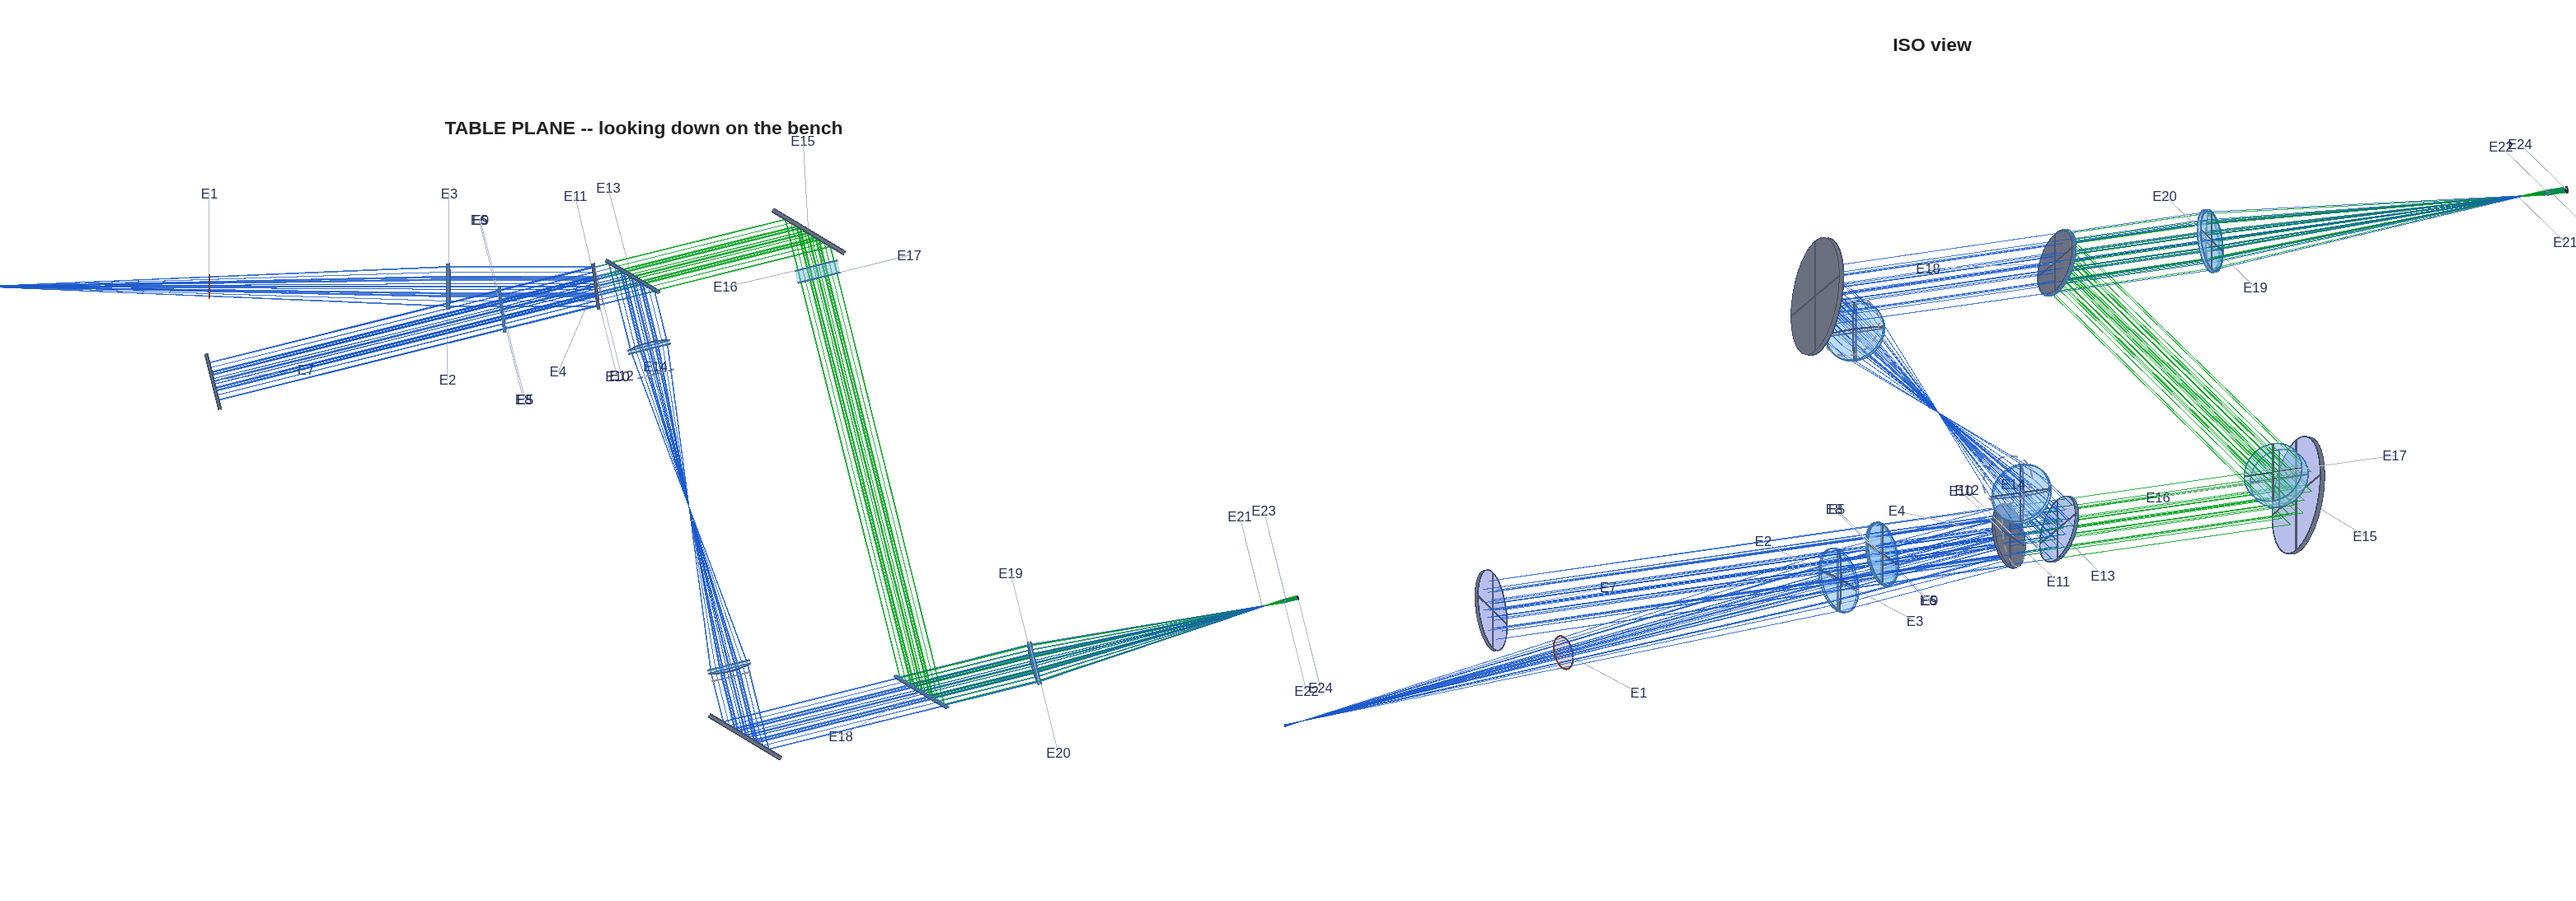
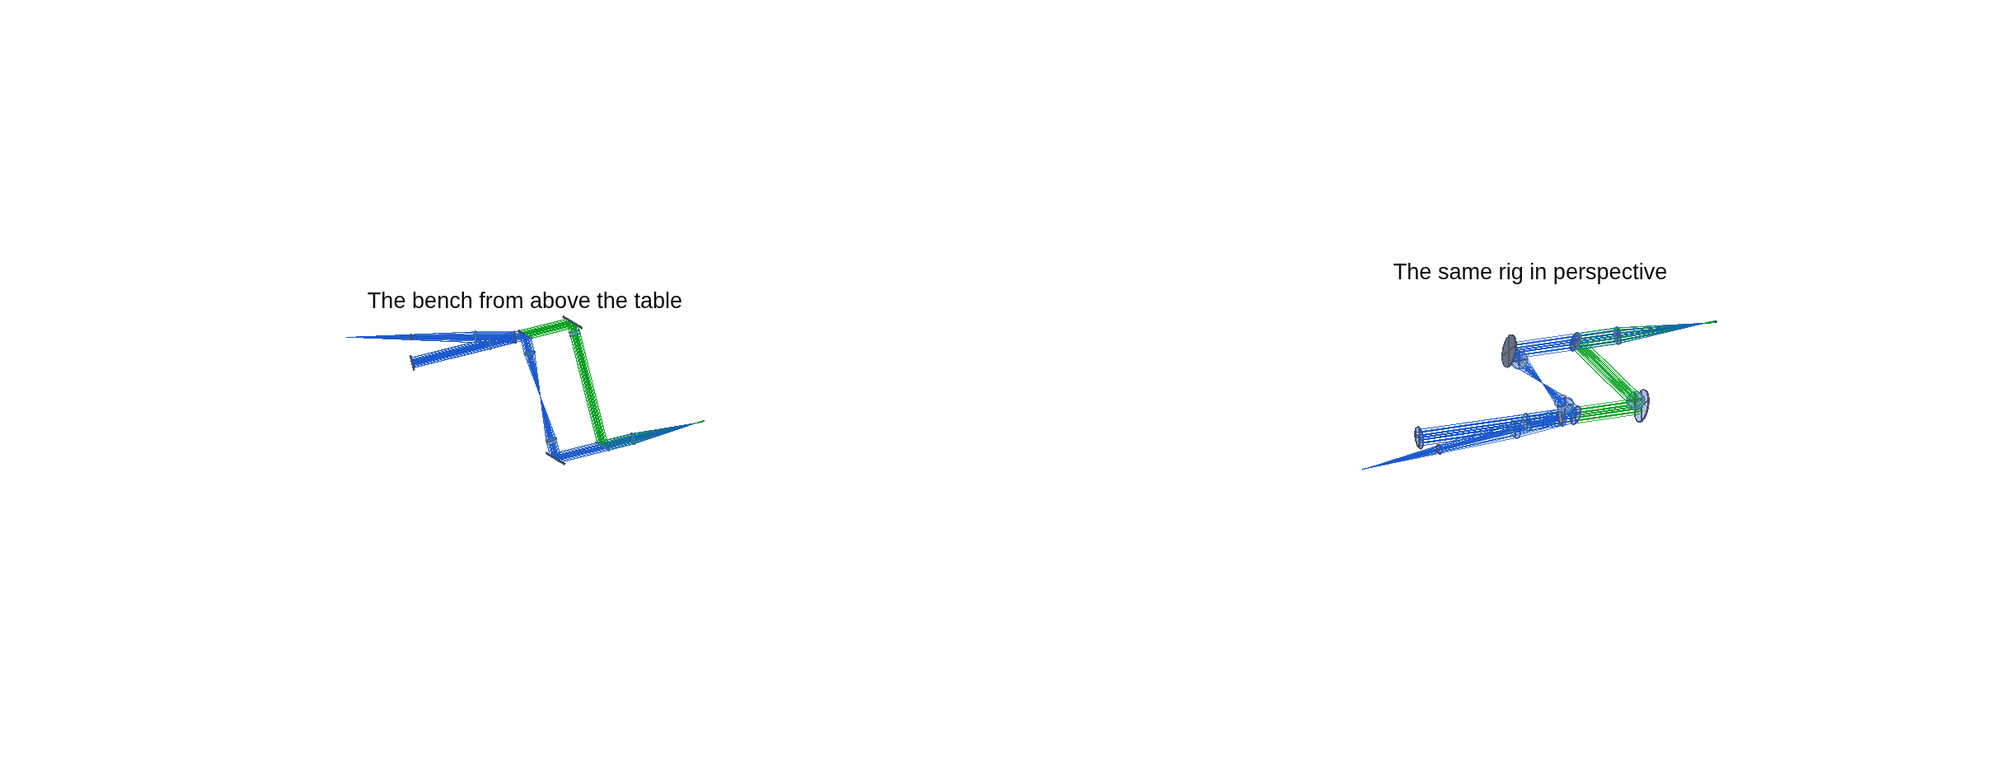
pdi_dm96 figures: both layouts redrawn to the deck recipe, iterable
pdi_vfig_util gains the two things the first pass got wrong at slide
size: label offsets are now a FRACTION OF THE AXIS SPAN (so a panel that
crops to 600 mm and one that shows 1900 mm place their names the same
distance off the beam on the printed page), and titles word-wrap (a
title wider than its axes is a title the slide cuts off at both ends --
both panels did).  'flat' takes an azimuth, so a portrait node can be
turned 90 deg in the page and shown at full slide width: the P/SRI's
reference arm is 830 mm long and 300 mm wide, and drawn upright it was
a narrow column between two empty margins.

psri_layout_fig('solve', false) takes the solved conic and pinhole trim
from pdi_params instead of re-running the search -- one bench build
instead of ~90, which is what makes a layout iterable.  The solve is
still the source of those values; the printout says which path ran.

pdi_layout_tail.png is dropped: the recipe puts the crowded node in the
SAME figure as a cropped panel, so a second file would be a second thing
to keep in step.

Claude-Session: https://claude.ai/code/session_01RuX6Hc5txP1E9QGjcSo42d

diff --git a/mmacos/templates/40_benches/pdi_dm96/psri_layout_fig.m b/mmacos/templates/40_benches/pdi_dm96/psri_layout_fig.m
@@ -18,6 +18,13 @@ if isempty(which('macos.init')), run(fullfile(exdir, '..', '..', '..', 'mmacos_s
 addpath(fullfile(exdir, '..', 'zwfs_dm96'));                % zwfs_params, zwfs_mask
 cd(exdir);
 MODEL = 512;  NGRID = 65;  N_G = 256;  DX_G = 0.42;
+% 'solve', false takes the SOLVED values of record from pdi_params
+% (P.pdi.psri) instead of re-running the search -- the figure then costs one
+% bench build instead of ~90, which is what makes a layout iterable.  The
+% solve is the source of those values; keep them in step.
+dosolve = true;
+k = find(strcmp(varargin, 'solve'), 1);
+if ~isempty(k), dosolve = varargin{k+1};  varargin(k:k+1) = []; end
 macos.init(MODEL);
 macos.write_grid_file('zwfs_flat.txt', zeros(N_G));
 base = [{'ngridpts', NGRID, 'to_grid_file', 'zwfs_flat.txt', 'to_grid_n', N_G, 'to_grid_dx', DX_G}, varargin];
@@ -31,6 +38,7 @@ base = [{'ngridpts', NGRID, 'to_grid_file', 'zwfs_flat.txt', 'to_grid_n', N_G, '
 % mm rms ray blur at the best focus; the ZWFS's L2 carries a tuned conic for
 % the same reason): Lr1's conic and the seat trim by the ray blur at the
 % pinhole, then Lr2's conic by the reference arm's wavefront at the camera.
+if dosolve
 J1 = @(x) ref_rayrms(base, x(1), x(2), NaN);
 x1 = fminsearch(J1, [3, -2.25], optimset('TolX', 1e-3, 'TolFun', 1e-7, 'MaxFunEvals', 90, 'Display', 'off'));
 trim_ray = x1(1);  kc1 = x1(2);
@@ -49,11 +57,16 @@ trim = fminbnd(pk, trim_ray - 0.3, trim_ray + 0.3, optimset('TolX', 2e-3, 'MaxFu
 [w_rc, w_chk, w_pin] = ref_wfe(base, trim, kc1, kc2);
 fprintf('P/SRI bench: Lr1 conic %.4f, ray focus at REF_TRIM %+.3f mm (rms ray radius %.4f mm); Lr2 = Lr1 mirrored (conic %.4f); diffraction focus at %+.3f mm\n', kc1, trim_ray, J1(x1), kc2, trim);
 fprintf('  geometric wavefront (WaveUnits mm -> nm rms): at the recombination plane %.1f nm (the front end''s collimation residual, filtered by the pinhole), recollimated after Lr2 %.1f nm (the same wave: reversibility), at the pinhole %.1f nm\n', w_rc*1e6, w_chk*1e6, w_pin*1e6);
+else
+    P0 = pdi_params();
+    kc1 = P0.pdi.psri.LR1_Kc;  kc2 = P0.pdi.psri.LR2_Kc;  trim = P0.pdi.psri.REF_TRIM;
+    fprintf('P/SRI bench: the SOLVED values of record, from pdi_params (Lr1 = Lr2 conic %.4f, REF_TRIM %+.4f mm) -- re-solve with psri_layout_fig(''solve'', true)\n', kc1, trim);
+end
 base = [base, {'LR1_Kc', kc1, 'LR2_Kc', kc2}];
 G = macos.design.psri_bench(base{:}, 'REF_TRIM', trim);
 G.bt.emit('psri_test.in');  G.br.emit('psri_ref.in');
 B = G.balance;
-fprintf('P/SRI bench: REF_TRIM %+.3f mm (mask-plane peak/sum %.3e)\n', trim, -pk(trim));
+if dosolve, fprintf('P/SRI bench: REF_TRIM %+.3f mm (mask-plane peak/sum %.3e)\n', trim, -pk(trim)); end
 fprintf('  chief optical path, source -> camera: test %.4f mm, reference %.4f mm, difference %.2e mm\n', B.opl_test_mm, B.opl_ref_mm, B.dopl_mm);
 fprintf('  lens-glass compensator in the test arm: %.3f mm of n = %.2f glass\n', B.t_comp_mm, G.P.N_GLASS);
 fprintf('  exit chiefs after BS3: transverse offset %.2e mm; directions test %s / ref %s\n', B.exit_offset_mm, mat2str(B.test_dir_at_exit, 6), mat2str(B.ref_dir_at_exit, 6));
@@ -88,28 +101,29 @@ for ax = [ax1 ax2]
 end
 TO = Et(G.T.iTO).vpt;  BS1 = Et(4).vpt;  M1 = Et(G.T.iM1).vpt;
 BS2 = Et(G.T.iBS2).vpt;  BS3 = Et(G.T.iBS3).vpt;  CAM = Et(G.T.iDET).vpt;
+SRC = Et(1).vpt;  L2 = Et(G.T.iL2).vpt;
 LR1 = Er(G.R.iLR1).vpt;  PIN = Er(G.R.iPIN).vpt;  LR2 = Er(G.R.iLR2).vpt;  M3 = Er(G.R.iM3).vpt;
 pdi_vfig_util('flat', ax1, ...
     'The P/SRI on the DM-gauge bench: the shared front end, then two balanced arms -- the test arm unfiltered (green) and the reference arm through its own pinhole (blue) -- recombined into one camera', 15);
+pdi_vfig_util('frame', ax1, [SRC TO CAM BS2 PIN M1 M3], [0.02 0.02 0.06 0.12]);
 axis(ax1, 'off');
 pdi_vfig_util('label', ax1, { ...
-    TO,  [0  -180], '96 mm deformable mirror (retro)'; ...
-    BS1, [60  170], 'beamsplitter, 7 deg'; ...
-    BS2, [130 -140], 'BS2: the split'; ...
-    PIN, [-80 -160], 'pinhole + phase shifter'; ...
-    CAM, [110 130], 'camera at the pupil image'}, 15);
-pdi_vfig_util('flat', ax2, sprintf(['The reference arm: Lr1 (f %.0f mm, F/%.1f) focuses onto the pinhole seat in its near-field sphere bracket, the photonic phase shifter steps it, ' ...
-    'Lr2 -- Lr1 mirrored about the pinhole -- recollimates, and M3 folds it onto BS3.  The test arm carries %.1f mm of compensating glass so the two chief paths are equal to %.0e mm'], ...
-    G.P.F_REF, G.P.F_REF/(2*G.P.R_TO_AP), B.t_comp_mm, max(abs(B.dopl_mm), 1e-16)), 15);
-pdi_vfig_util('frame', ax2, [LR1 PIN LR2 M3 BS2 BS3], [40 40 40 40]);
+    TO,  [-0.06 -0.26], '96 mm deformable mirror (retro)'; ...
+    BS1, [-0.03  0.15], 'beamsplitter, 7 deg'; ...
+    BS2, [ 0.13  0.07], 'BS2: the split'; ...
+    PIN, [-0.03 -0.27], 'pinhole + phase shifter'; ...
+    CAM, [ 0.03  0.14], 'camera at the pupil image'}, 15);
+% panel 2: the reference arm's node, the crowded part a builder has to get
+% right -- Lr1, the pinhole seat at the true focus, Lr2, and the fold onto BS3
+pdi_vfig_util('flat', ax2, sprintf(['The reference arm: Lr1 (f %.0f mm, F/%.1f) focuses onto the pinhole seat in its near-field sphere bracket, the phase shifter steps it, ' ...
+    'Lr2 -- Lr1 mirrored about the pinhole -- recollimates, and M3 folds it onto BS3.  The test arm carries %.1f mm of compensating glass, which equalizes the two chief paths to %.0e mm.  (The fold plane, turned 90 deg in the page)'], ...
+    G.P.F_REF, G.P.F_REF/(2*G.P.R_TO_AP), B.t_comp_mm, max(abs(B.dopl_mm), 1e-16)), 15, 90);
+pdi_vfig_util('frame', ax2, [LR1 PIN LR2 M3], [0.10 0.10 0.45 0.45]);
 pdi_vfig_util('label', ax2, { ...
-    BS2, [ 22  34], 'BS2'; ...
-    LR1, [-34 -26], 'Lr1'; ...
-    PIN, [ 40 -30], 'pinhole seat (the true focus)'; ...
-    LR2, [-34  26], 'Lr2'; ...
-    M3,  [ 26 -30], 'M3'; ...
-    M1,  [-26  30], 'M1 (test arm)'; ...
-    BS3, [ 30  26], 'BS3: recombination'}, 16);
+    LR1, [-0.02 -0.26], 'Lr1'; ...
+    PIN, [ 0.00  0.26], 'pinhole seat (the true focus)'; ...
+    LR2, [ 0.02 -0.26], 'Lr2'; ...
+    M3,  [ 0.03  0.24], 'M3, onto BS3'}, 16);
 print(f, 'psri_layout.png', '-dpng', '-r130');  close(f);
 fprintf('wrote psri_layout.png\n');
 % ---- the traced render: the same two decks, table plane and ISO ------------

diff --git a/mmacos/templates/40_benches/pdi_dm96/pdi_vfig_util.m b/mmacos/templates/40_benches/pdi_dm96/pdi_vfig_util.m
@@ -7,41 +7,66 @@ function out = pdi_vfig_util(varargin)
 %   width, type readable at slide size (15-17 pt in an 1800 px figure).
 %
 %   Calls:
-%     ax = pdi_vfig_util('axes', fig, tl, span)     a tile of span rows
-%     pdi_vfig_util('flat', ax, title)              from above, equal, titled
-%     pdi_vfig_util('label', ax, lab)               leader-lined names
-%     pdi_vfig_util('frame', ax, pts, pad)          limits about these points
-%   lab is an N x 3 cell: {vertex (3x1), offset [dx dy], name}.
+%     pdi_vfig_util('flat',  ax, title, fontsize [, az])  from above, equal,
+%                                                   titled; az rotates the
+%                                                   fold plane in the page
+%     pdi_vfig_util('frame', ax, pts, padfrac)      limits about these points
+%     pdi_vfig_util('label', ax, lab [, fontsize])  leader-lined names
+%
+%   lab is an N x 3 cell: {vertex (3x1), offset [fx fy], name}.  THE OFFSET
+%   IS A FRACTION OF THE AXIS SPAN, not bench mm -- a panel that crops to
+%   600 mm and one that shows 1900 mm then place their labels the same
+%   distance off the beam on the printed page, which is the only distance
+%   that matters.  Call 'label' AFTER 'frame' (it reads the limits).
+%
+%   padfrac is [left right bottom top] as fractions of the point cloud's
+%   own extent.  Titles are wrapped to WRAPCOL characters a line: a title
+%   wider than its axes is a title the slide cuts off at both ends.
+WRAPCOL = 105;
 switch varargin{1}
-case 'axes'
-    [~, tl, span] = varargin{2:4};  out = nexttile(tl, [span 1]);
 case 'flat'
     [ax, ttl, fs] = varargin{2:4};
-    axes(ax);  axis(ax, 'equal');  view(ax, 0, 90);                 %#ok<LAXES>
-    title(ax, ttl, 'Color', [11 11 11]/255, 'FontWeight', 'normal', 'FontSize', fs);
-    out = ax;
-case 'label'
-    [ax, lab] = varargin{2:3};
-    fs = 17;  if numel(varargin) > 3, fs = varargin{4}; end
-    for k = 1:size(lab, 1)
-        p = lab{k,1};  d = lab{k,2};
-        plot3(ax, [p(1) p(1)+d(1)], [p(2) p(2)+d(2)], [0.2 0.2], '-', ...
-            'Color', [137 135 129]/255, 'LineWidth', 1.0);
-        text(ax, p(1)+d(1), p(2)+d(2), 0.3, lab{k,3}, 'Color', [11 11 11]/255, ...
-            'FontSize', fs, 'HorizontalAlignment', 'center', 'VerticalAlignment', 'bottom', ...
-            'BackgroundColor', 'w', 'Margin', 1);
-    end
+    az = 0;  if numel(varargin) > 4, az = varargin{5}; end   % rotate the fold plane in the page:
+    axes(ax);  axis(ax, 'equal');  view(ax, az, 90);         %#ok<LAXES> a portrait node at full width
+    title(ax, wrap_(ttl, WRAPCOL), 'Color', [11 11 11]/255, 'FontWeight', 'normal', 'FontSize', fs);
     out = ax;
 case 'frame'
     [ax, pts, pad] = varargin{2:4};
-    xlim(ax, [min(pts(1,:))-pad(1), max(pts(1,:))+pad(2)]);
-    ylim(ax, [min(pts(2,:))-pad(3), max(pts(2,:))+pad(4)]);
+    x0 = min(pts(1,:));  x1 = max(pts(1,:));  y0 = min(pts(2,:));  y1 = max(pts(2,:));
+    w = max(x1 - x0, eps);  h = max(y1 - y0, eps);
+    xlim(ax, [x0 - pad(1)*w, x1 + pad(2)*w]);
+    ylim(ax, [y0 - pad(3)*h, y1 + pad(4)*h]);
     xlabel(ax, 'bench x, mm', 'Color', [11 11 11]/255, 'FontSize', 14);
     ylabel(ax, 'bench y, mm', 'Color', [11 11 11]/255, 'FontSize', 14);
     set(ax, 'FontSize', 13);  grid(ax, 'on');
     set(ax, 'GridColor', [225 224 217]/255, 'Color', 'w');
     out = ax;
+case 'label'
+    [ax, lab] = varargin{2:3};
+    fs = 16;  if numel(varargin) > 3, fs = varargin{4}; end
+    xl = xlim(ax);  yl = ylim(ax);  sx = diff(xl);  sy = diff(yl);
+    for k = 1:size(lab, 1)
+        p = lab{k,1};  d = [lab{k,2}(1)*sx, lab{k,2}(2)*sy];
+        plot3(ax, [p(1) p(1)+d(1)], [p(2) p(2)+d(2)], [0.2 0.2], '-', ...
+            'Color', [137 135 129]/255, 'LineWidth', 1.0);
+        va = 'bottom';  if d(2) < 0, va = 'top'; end
+        text(ax, p(1)+d(1), p(2)+d(2), 0.3, lab{k,3}, 'Color', [11 11 11]/255, ...
+            'FontSize', fs, 'HorizontalAlignment', 'center', 'VerticalAlignment', va, ...
+            'BackgroundColor', 'w', 'Margin', 1);
+    end
+    out = ax;
 otherwise
     error('pdi_vfig_util: unknown action %s', varargin{1});
 end
+end
+
+function t = wrap_(s, n)
+% word-wrap to n characters a line (a cell of lines: MATLAB stacks them)
+w = strsplit(strtrim(s), ' ');  t = {};  cur = '';
+for i = 1:numel(w)
+    if isempty(cur), cand = w{i}; else, cand = [cur ' ' w{i}]; end
+    if numel(cand) > n && ~isempty(cur), t{end+1} = cur;  cur = w{i}; %#ok<AGROW>
+    else, cur = cand; end
+end
+if ~isempty(cur), t{end+1} = cur; end
 end

diff --git a/mmacos/templates/40_benches/pdi_dm96/pdi_layout_fig.m b/mmacos/templates/40_benches/pdi_dm96/pdi_layout_fig.m
@@ -44,29 +44,29 @@ for ax = [ax1 ax2]
     macos.view_rx('ax', ax, 'ray_color', green, 'title', '', 'labels', false, 'hide', passive);
 end
 % ---- top: the whole train, from above the fold plane ----------------------
-pdi_vfig_util('flat', ax1, ...
-    'The point-diffraction gauge: the TG96 test arm, with a stepped PINHOLE substrate in the seat at the internal focus', 15);
-axis(ax1, 'off');
 L1 = E(idx('L1pow')).vpt;  BS = E(idx('BSrefl')).vpt;  TO = E(idx('TestOptic')).vpt;
 CM = E(idx('Comptxfd')).vpt;  SEAT = E(G.T.iMASK).vpt;  CAM = E(G.T.iDET).vpt;
-L2 = E(idx('L2pow')).vpt;  FL = E(idx('FLpow')).vpt;
+L2 = E(idx('L2pow')).vpt;  FL = E(idx('FLpow')).vpt;  SRC = E(1).vpt;
+pdi_vfig_util('flat', ax1, ...
+    'The point-diffraction gauge: the TG96 test arm, with a stepped PINHOLE substrate in the seat at the internal focus', 15);
+pdi_vfig_util('frame', ax1, [SRC TO CAM L1 SEAT], [0.03 0.03 0.42 0.30]);
+axis(ax1, 'off');
 pdi_vfig_util('label', ax1, { ...
-    L1,   [0   130], 'collimator L1'; ...
-    BS,   [90 -150], 'beamsplitter, 7 deg'; ...
-    CM,   [-60 150], 'compensator'; ...
-    TO,   [0  -170], '96 mm deformable mirror (retro)'; ...
-    L2,   [-40 170], 'L2'; ...
-    SEAT, [180 -130], 'pinhole substrate at the internal focus'}, 15);
+    L1,   [-0.06 -0.26], 'collimator L1'; ...
+    CM,   [ 0.02  0.16], 'compensator'; ...
+    BS,   [ 0.09 -0.13], 'beamsplitter, 7 deg'; ...
+    TO,   [ 0.00 -0.20], '96 mm deformable mirror (retro)'; ...
+    L2,   [-0.02  0.24], 'L2'; ...
+    SEAT, [ 0.13  0.13], 'pinhole substrate at the internal focus'}, 15);
 % ---- bottom: the crowded node, cropped -----------------------------------
-pdi_vfig_util('flat', ax2, sprintf(['The last %.0f mm: the seat between the near-field entrance and exit spheres, then the field lens and the camera at the pupil image.  ' ...
-    'The pinhole is %.2f lam/D across (%.1f um); the surround transmits %s of the amplitude, and the substrate steps the pinhole''s phase'], ...
-    norm(CAM - L2), P.pdi.DIA_LAMD, P.pdi.DIA_LAMD*P.LAM*P.bench.F2/(2*P.bench.R_TO_AP)*1e3, ...
-    'a matched fraction'), 15);
-pdi_vfig_util('frame', ax2, [SEAT CAM FL L2], [30 25 22 22]);
+pdi_vfig_util('flat', ax2, sprintf(['The tail: the seat between the near-field entrance and exit spheres, then the field lens and the camera at the pupil image.  ' ...
+    'The pinhole is %.2f lam/D across (%.1f um); the surround is attenuated to match the reference it diffracts, and the substrate steps its phase'], ...
+    P.pdi.DIA_LAMD, P.pdi.DIA_LAMD*P.LAM*P.bench.F2/(2*P.bench.R_TO_AP)*1e3), 15);
+pdi_vfig_util('frame', ax2, [SEAT CAM FL], [0.30 0.10 0.85 0.35]);
 pdi_vfig_util('label', ax2, { ...
-    SEAT, [-16 -13], 'pinhole substrate (the seat)'; ...
-    FL,   [-6   12], 'field lens'; ...
-    CAM,  [10    7], 'camera at the pupil image'}, 16);
+    SEAT, [-0.11 -0.34], 'pinhole substrate (the seat)'; ...
+    FL,   [-0.04  0.14], 'field lens'; ...
+    CAM,  [ 0.02 -0.22], 'camera at the pupil image'}, 16);
 print(f, 'pdi_layout.png', '-dpng', '-r130');  close(f);
 fprintf('wrote pdi_layout.png\n');
 out = struct('bench', G.bt, 'deck', deck, 'iMASK', G.T.iMASK, 'iDET', G.T.iDET);

diff --git a/mmacos/templates/40_benches/pdi_dm96/README.md b/mmacos/templates/40_benches/pdi_dm96/README.md
@@ -44,6 +44,29 @@ solves the reference lens's conic and the pinhole seat's trim, emits
 common-path form's layout).  Both draw in the deck recipe
 (`pdi_vfig_util`).
 
+## Reproducing the record
+
+Every number in `REPORT_gauge_pdi.md` and in the findings below comes
+from one of these runs.  The whole chain is `runs/gmaster.sh`; each
+sequence stands alone and can be re-run on its own.
+
+| sequence | runs | what they answer |
+|---|---|---|
+| `runs/gsmoke.sh` | `sm_psri_nl`, `sm_knobs` | dev-resolution (model 512, 65 rays, 48×48 DM) smoke of every path the record uses: the P/SRI bench through noise AND loop, and the three new loop knobs |
+| `runs/gseq1.sh` | `pfdeck`, `pfdeck_frz`, `pfdeck_loop`, `cap385p`, `cap385p_b60/90/120/160`, `noise193p_b30/60/120/160` | **the P/SRI with both arms traced** (rows, photons, loop) against the synthesized reference, with the frozen-reference control; **capture range and photons** for P and PF |
+| `runs/gseq2.sh` | `pin20_1024`, `pin20_loop`, `pin10_2048`, `pin10_loop` | **the pinhole diameter of record**: 2.0 λ/D at model 1024 / 193 rays against 1.0 λ/D at 2048 / 385 |
+| `runs/gseq3.sh` | `descent193`, `descent193s`, `descent193f`, `intra193_0`, `intra193` | **the descent** (capturing the DM's initial figure) and the **within-measurement DM drift** |
+| `runs/gseq4.sh` | `rw193_1e3`, `rw193_1e2`, `rw193_1e1` | **the reference arm's own drift** (P/SRI), three sizes, with P as the common-path control |
+| `runs/gfigs.sh` | — | the two layout figures |
+
+The comparison baselines are the pre-split records in
+`../zwfs_dm96/runs/`: `pdi193fbase` (the rows with the matrix on the 30
+nm surface), `pdi193f` (photons), `ploop193` (the loop), `pdi193state`
+(P with a shutter frame per state), `pdi193d1` (the 1 λ/D pinhole),
+`pdi193se_ls` / `pdi193se_sh5` (the step-scheme trade), `pcam193*` (the
+camera drift), `cap385` / `noise193_b*` (the ZWFS readings' capture
+range and photons, for the side-by-side).
+
 ## The two benches
 
 | | test field | reference | cost per state |
@@ -250,7 +273,9 @@ width, 15-17 pt type in an 1800 px figure.  The recipe itself is
   seat, so the figure says that in the caption instead of drawing a
   second bench.  *(The pre-2026-09-13 version was a `Bench.sketch` with
   E-number labels at 9-11 pt — it did not meet the recipe and was
-  redone.)*
+  redone.  Its companion `pdi_layout_tail.png` is gone: the recipe puts
+  the crowded node in the SAME figure as a cropped panel, so a second
+  file would be a second thing to keep in step.)*
 - `psri_layout.png` / `psri_render.png` (`psri_layout_fig`) — the
   two-arm P/SRI: panel 1 the whole bench with both arms' own traces
   overlaid (green test, blue reference), panel 2 the reference arm's
